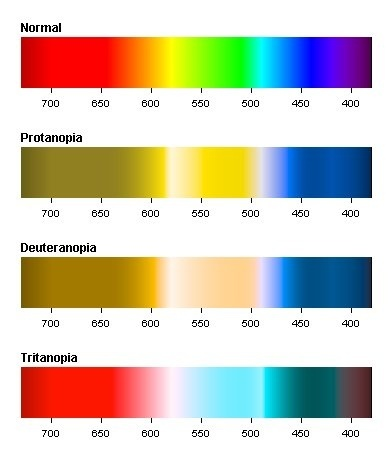
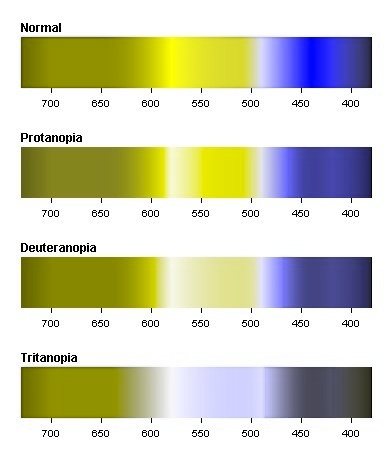
Add color blindness simulations and results

diff --git a/color_blind_correction.py b/color_blind_correction.py
@@ -15,18 +15,123 @@ simulated_deuteranopia_path = ''
 simulated_tritanopia_path = ''
 crt_dir = os.getcwd()
 
-def simulate_protanopia():
-    original_image = cv2.imread(current_file)
-    print(simulated_protanopia_path + " :)")
-    cv2.imwrite(simulated_protanopia_path, original_image)
+'''
+Conversion matrices
+https://daltonlens.org/understanding-cvd-simulation/
+'''
+'''
+LMS = RGB2LMS_matrix * RGB
+'''
+# RGB2LMS_matrix = np.array(  [[0.3904725 , 0.54990437, 0.00890159],
+#                             [0.07092586, 0.96310739, 0.00135809],
+#                             [0.02314268, 0.12801221, 0.93605194]
+#                             ], dtype=np.float16)
+RGB2LMS_matrix = np.array([[17.88240413, 43.51609057,  4.11934969],
+         [ 3.45564232, 27.15538246,  3.86713084],
+         [ 0.02995656,  0.18430896,  1.46708614]])
+'''
+LMS_protanopia = LMS2LMSp_matrix * LMS
+'''
+# LMS2LMSp_matrix = np.array( [[0, 0.90822864, 0.008192],
+#                             [0, 1, 0],
+#                             [0, 0, 1]
+#                             ], dtype=np.float16)
+LMS2LMSp_matrix = np.array( [[0.0, 2.02344377, -2.52580405],
+                            [0.0, 1.0, 0.0],
+                            [0.0, 0.0, 1.0]])
+'''
+LMS_deuteranopia = LMS2LMSp_matrix * LMS
+'''
+# LMS2LMSd_matrix = np.array( [[1, 0, 0],
+#                             [1.10104433, 0, -0.00901975],
+#                             [0, 0, 1]
+#                             ], dtype=np.float16)
+LMS2LMSd_matrix = np.array( [[1.0, 0.0, 0.0],
+                            [0.49420696, 0.0, 1.24826995],
+                            [0.0, 0.0, 1.0]])
+'''
+LMS_tritanopia = LMS2LMSt_matrix * LMS
+'''
+# LMS2LMSt_matrix = np.array( [[1, 0, 0],
+#                             [0, 1, 0],
+#                             [-0.15773032,  1.19465634, 0]
+#                             ], dtype=np.float16)
+LMS2LMSt_matrix = np.array( [[ 1.0, 0.0, 0.0],
+                            [ 0.0, 1.0, 0.0],
+                            [-0.01224491, 0.07203435, 0.0]])
+'''
+RGB = LMS2RGB_matrix * LMS
+'''
+# LMS2RGB_matrix = np.array(  [[ 2.85831110e+00, -1.62870796e+00, -2.48186967e-02],
+#                             [-2.10434776e-01,  1.15841493e+00,  3.20463334e-04],
+#                             [-4.18895045e-02, -1.18154333e-01,  1.06888657e+00]
+#                             ], dtype=np.float16)
+LMS2RGB_matrix = np.array(  [[ 0.0809, -0.1305, 0.1167],
+                             [-0.0102, 0.0540, -0.1136],
+                             [-0.0004, -0.0041, 0.6935]])
 
-def simulate_deuteranopia():
-    original_image = cv2.imread(current_file)
-    cv2.imwrite(simulated_deuteranopia_path, original_image)
+gamma = 2.2
+def sRGB2linearRGB(srgb_image):
+    for i in range (srgb_image.shape[0]):
+        for j in range (srgb_image.shape[1]):
+            [r,g,b] = srgb_image[i,j]
+            r = pow(r, gamma)
+            g = pow(g, gamma)
+            b = pow(b, gamma)
+            srgb_image[i,j] = [r, g, b]
 
-def simulate_tritanopia():
+one_over_gamma = 1.0 / 2.2
+def linearRGB2sRGB(rgb_image):
+    for i in range (rgb_image.shape[0]):
+        for j in range (rgb_image.shape[1]):
+            [r,g,b] = rgb_image[i,j]
+            r = pow(r, one_over_gamma)
+            g = pow(g, one_over_gamma)
+            b = pow(b, one_over_gamma)
+            rgb_image[i,j] = [r, g, b]
+
+def simulate_colorblindness(type):
     original_image = cv2.imread(current_file)
-    cv2.imwrite(simulated_tritanopia_path, original_image)
+
+    # Reorder channels BGR -> RGB
+    red = original_image[:,:,2]
+    green = original_image[:,:,1]
+    blue = original_image[:,:,0]
+
+    rgb_image = np.zeros(original_image.shape)
+    rgb_image[:,:,0] = red
+    rgb_image[:,:,1] = green
+    rgb_image[:,:,2] = blue
+
+    sRGB2linearRGB(rgb_image)
+
+    # Convert RGB->LMS
+    lms_image = rgb_image @ RGB2LMS_matrix.T
+    # Simulate colorblindness in LMS
+    colorblind_simulation_matrix = LMS2LMSp_matrix
+    if type == 'deuteranopia':
+        colorblind_simulation_matrix = LMS2LMSd_matrix
+    elif type == 'tritanopia':
+        colorblind_simulation_matrix = LMS2LMSt_matrix
+    lms_colorblind_image = lms_image @ colorblind_simulation_matrix.T
+    # Convert LMS->RGB
+    rbg_colorblind_image = lms_colorblind_image @ LMS2RGB_matrix.T
+
+    # Reorder channels RGB->BGR
+    bgr_colorblind_image = np.zeros(original_image.shape)
+    bgr_colorblind_image[:,:,0] = rbg_colorblind_image[:,:,2]
+    bgr_colorblind_image[:,:,1] = rbg_colorblind_image[:,:,1]
+    bgr_colorblind_image[:,:,2] = rbg_colorblind_image[:,:,0]
+
+    linearRGB2sRGB(bgr_colorblind_image)
+
+    # Save result image
+    result_image_path = simulated_protanopia_path
+    if type == 'deuteranopia':
+        result_image_path = simulated_deuteranopia_path
+    elif type == 'tritanopia':
+        result_image_path = simulated_tritanopia_path
+    cv2.imwrite(result_image_path, bgr_colorblind_image)
 
 def display_protanopia_simulation():
     protanopia_text = tk.Text(window, height=1, width = 40)
@@ -94,15 +199,15 @@ def open_file():
     label1.grid(column=0, row=2, sticky='nw', padx=0, pady=0)
 
     # Insert Simulated Protanopia Image
-    simulate_protanopia()
+    simulate_colorblindness('protanopia')
     display_protanopia_simulation() 
 
     # Insert Simulated Deuteranopia Image
-    simulate_deuteranopia()
+    simulate_colorblindness('deuteranopia')
     display_deuteranopia_simulation()
 
     # Insert Simulated Tritanopia Image
-    simulate_tritanopia()
+    simulate_colorblindness('tritanopia')
     display_tritanopia_simulation()
     
 
